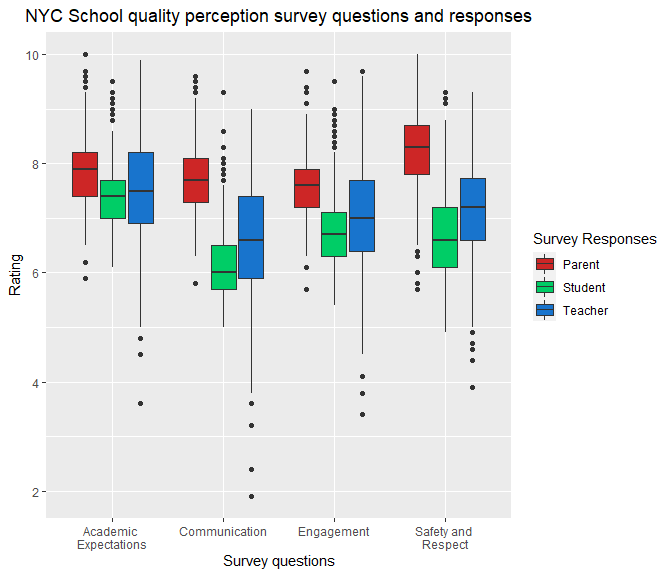
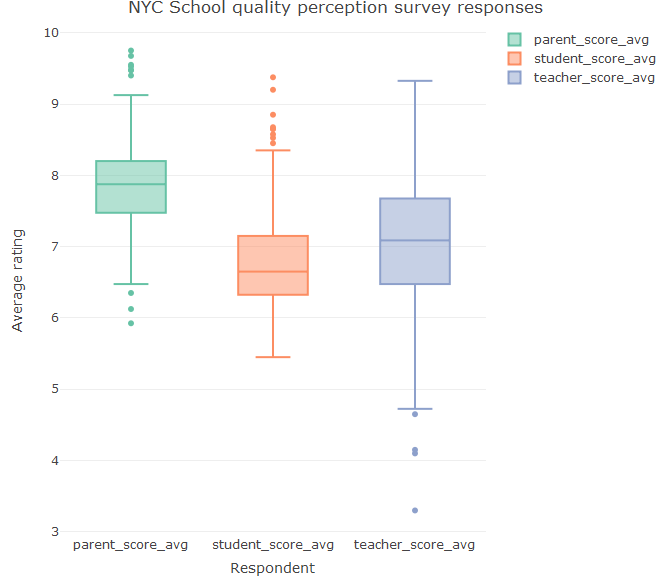
Small edits

diff --git a/NYC-Guided-project.md b/NYC-Guided-project.md
@@ -29,6 +29,7 @@ library(tidyverse)
 library(ggplot2)
 library(dplyr)
 library(corrplot)
+library(plotly)
 ```
 
 ### Import and preview data
@@ -226,6 +227,18 @@ survey_score_longer%>%ggplot(aes(x=respondent, y=avg_score))+
 <img src="README_figs/README-plot-4.png" style="display: block; margin: auto;" />
 
 ``` r
+x <- list(title = "Respondent")
+y <- list(title = "Average rating")
+fig<-plot_ly(data = survey_score_longer, x=~respondent, 
+             y=~avg_score, color=~respondent, type = "box")%>%
+  layout(title= "NYC School quality perception survey responses",
+            xaxis=x, yaxis=y)
+fig
+```
+
+<img src="README_figs/README-plot-5.png" style="display: block; margin: auto;" />
+
+``` r
 #Pivot table longer to establish individual rating per question type
 que_score<-combined%>%
   pivot_longer(cols = c(saf_p_11:aca_s_11),
@@ -262,4 +275,4 @@ que_score %>%
   theme(plot.title = element_text(hjust = 0.5))
 ```
 
-<img src="README_figs/README-plot-5.png" style="display: block; margin: auto;" />
+<img src="README_figs/README-plot-6.png" style="display: block; margin: auto;" />
